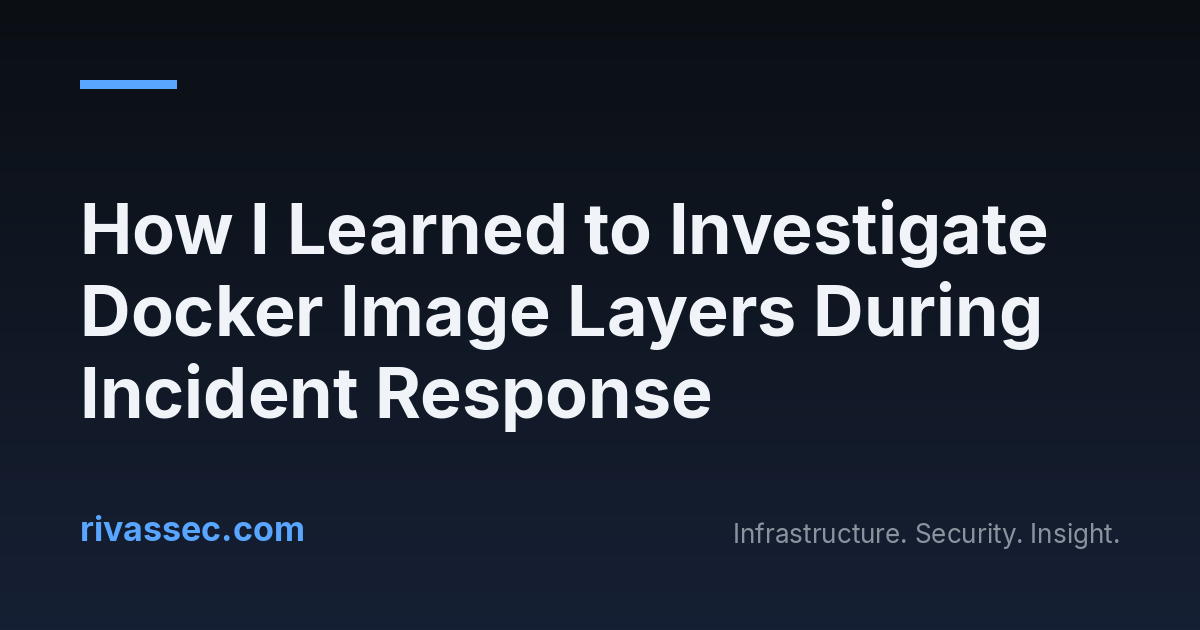
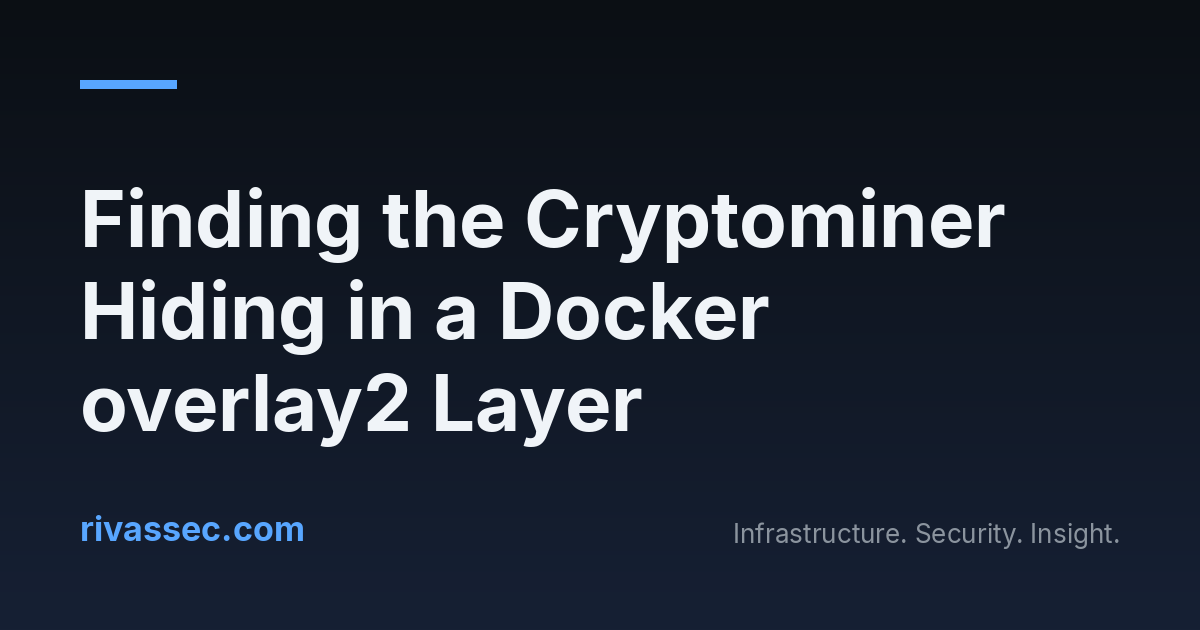
post: publish Finding the Cryptominer Hiding in a Docker overlay2 Layer (#56)
IR walkthrough: correlation finding -> overlay2 layer forensics ->
tag-retarget vs on-disk-tampering hypotheses -> operational definition
of clean. Went through the pre-publish gate twice (fail -> fixes ->
pass) plus a post-pass polish round.

- retitled for search fit; og/cover cards regenerated to match
- linked from the hub's Operating Under Pressure section
- references to the not-yet-published companion post are unlinked
  placeholders; the links land with that post's publish PR

Changed region(s): [[0.0617, 0.3016, 0.8942, 0.573], [0.0617, 0.573, 0.6167, 0.7238]]

diff --git a/content/cryptominer-in-the-docker-layer.md b/content/cryptominer-in-the-docker-layer.md
@@ -1,19 +1,17 @@
-Title: How I Learned to Investigate Docker Image Layers During Incident Response
-Date: 2026-06-24
-Modified: 2026-06-24
+Title: Finding the Cryptominer Hiding in a Docker overlay2 Layer
+Date: 2026-09-11 09:00
+Modified: 2026-09-11 09:00
 Author: Oliver Rivas
 Category: DevSecOps
-Tags: incident-response, docker, overlay2, cryptominer, guardduty, aws, forensics
+Tags: incident-response, devsecops, docker, forensics
 Slug: cryptominer-in-the-docker-layer
 Og_image: images/og/cryptominer-in-the-docker-layer.png
-Summary: A runtime detector flagged mining but ps and ss came back clean. The miner hid in the image's overlay2 diff layer, re-dropped on every container restart.
+Summary: A runtime detector flagged mining but ps and ss came back clean. The miner lived in the image's overlay2 diff layer, relaunched on every container restart.
 Cover: images/covers/cryptominer-in-the-docker-layer.png
-Status: draft
-Published_after: 2026-06-19
 
 [TOC]
 
-During a recent incident-response engagement, I worked through a case where the on-disk picture and the runtime picture were saying different things. The cloud provider's threat-detection service fired several correlated findings on a containerized workload: two cryptomining DNS detections (one against the host, one against a container running on it), one resolver-level finding for the same lookups, and a correlation finding that stitched them all into a single critical-severity event. The destination was a public Monero mining pool. The instance was running a Java-based data-processing application.
+During an incident-response engagement, I worked through a case where the on-disk picture and the runtime picture were saying different things. The cloud provider's threat-detection service fired several correlated findings on a containerized workload: two cryptomining DNS detections (one against the host, one against a container running on it), one resolver-level finding for the same lookups, and a correlation finding that stitched them all into a single critical-severity event. The destination was a public Monero mining pool. The instance was running a JVM-based service.
 
 I opened an SSM session onto the host, ran `ps -ef` inside the container, ran `ss -tunap`, and found nothing. No miner process. No outbound connection to the pool. No CPU pressure. The Java heap looked normal. The application was happily doing what the application was supposed to be doing.
 
@@ -21,15 +19,15 @@ For a while I was sure I was looking at a false-positive.
 
 I was not.
 
-The miner was on disk, in one of the image's overlay2 layers. The container's filesystem could see it through the union mount, but the binary was not in the process space at the moment I checked, which is what `ps` reports. The persistence lived in a layer that survives `docker compose down -v`, which meant any container created from the affected image would inherit the file if the image itself was the source of the persistence. This post is about the sweep that found it, what I now know to look at on the next one, and what I am still not sure about.
+The miner was on disk, in one of the image's [overlay2](https://docs.docker.com/engine/storage/drivers/overlayfs-driver/) layers. The container's filesystem could see it through the union mount, but the binary was not in the process space at the moment I checked, which is what `ps` reports. The persistence lived in a layer that survives `docker compose down -v`, which meant any container created from the affected image would inherit the file if the image itself was the source of the persistence. This post is about the sweep that found it, what I now know to look at on the next one, and what I am still not sure about.
 
 ## The shape of the alert
 
-A modern cloud-detector IR loop has two tiers. There are the per-signal findings, which fire on a single observation: a DNS query to a known mining pool, an SSH brute-force attempt, a port scan against a sensitive port. They are designed for noise reduction. Most of them are individually low-confidence and will resolve as false-positive once a human looks.
+A modern cloud-detector IR loop has two tiers. There are the per-signal findings, which fire on a single observation: a DNS query to a known mining pool, an SSH brute-force attempt, a port scan against a sensitive port. In my experience, most of them are individually low-confidence and will resolve as false-positive once a human looks.
 
-Then there are the correlation findings. AWS GuardDuty calls these `AttackSequence` findings; other clouds and EDRs have analogues. The defining property is that they do not fire on a single signal. They fire when the detector has stitched several signals into a coherent story: a brute-force from a known-bad IP, then a port probe from a different known-bad IP, then a process inside a container talking to a mining pool, all on the same instance, in the same window. The finding hands you the timeline pre-assembled.
+Then there are the correlation findings. AWS GuardDuty calls these [`AttackSequence` findings](https://docs.aws.amazon.com/guardduty/latest/ug/guardduty-extended-threat-detection.html); other clouds and EDRs have analogues. The defining property is that they do not fire on a single signal. They fire when the detector has stitched several signals into a coherent story: a brute-force from a known-bad IP, then a port probe from a different known-bad IP, then a process inside a container talking to a mining pool, all on the same instance, in the same window. The finding hands you the timeline pre-assembled. That correlation tier is where the noise reduction actually happens: many weak signals in, one high-confidence story out.
 
-Per-signal findings can be wrong. Correlation findings can be wrong too, but in my experience they earn priority because they pre-stitch the timeline and tend to carry the highest-confidence detail in the inbox. The lesson I keep relearning is to read them first, especially before declaring per-signal findings false-positive.
+Per-signal findings can be wrong. Correlation findings can be wrong too, but in my experience they earn priority because they pre-stitch the timeline and tend to carry the highest-confidence detail in the inbox.
 
 In this case the correlation finding listed the file path on disk:
 
@@ -37,7 +35,7 @@ In this case the correlation finding listed the file path on disk:
 /opt/<app>/.<hidden_dir>/lib/<obfuscated_subdir>/<binary>
 ```
 
-That string was in the JSON. Not a heuristic, not a prediction, a path. The runtime sensor had observed the binary executing and recorded its on-disk location.
+That string was in the JSON - not a heuristic or a prediction, an actual on-disk path. The runtime sensor had observed the binary executing and recorded its on-disk location.
 
 That is when I went looking on the host.
 
@@ -47,10 +45,10 @@ The container view is not the host view. Inside the running container, the binar
 
 | Directory | Role | Survives container exit? |
 |---|---|---|
-| `lowerdir` (`diff` on each lower layer) | Read-only contribution from a build-time image layer | Yes; only `docker rmi` removes it |
+| `lowerdir` (`diff` on each lower layer) | Read-only contribution from a build-time image layer | Yes; removed only by image removal (`docker rmi` / image prune) |
 | `merged` | Live union view the container sees as `/` | No, unmounted when container stops |
 | `upperdir` | Writable layer the container modifies at runtime | Yes (until container is removed) |
-| `workdir` | Overlay's internal scratch space | No |
+| `workdir` | Overlay's internal scratch space | Directory persists until container removal; contents are transient scratch, nothing forensically durable |
 
 Two of these matter for the rest of this story:
 
@@ -60,58 +58,58 @@ Two of these matter for the rest of this story:
 The first one is the image's diff directory:
 
 ```
-/var/lib/docker/overlay2/<layer-id>/diff/opt/<app>/.<hidden_dir>/lib/<obfuscated_subdir>/<binary>
+/var/lib/docker/overlay2/<image-layer-id>/diff/opt/<app>/.<hidden_dir>/lib/<obfuscated_subdir>/<binary>
 ```
 
-The second one is the merged view, which is what the running container actually sees:
+The second one is the merged view, which is what the running container actually sees. Note the different directory ID: the merged mount lives under the container's own layer directory, not under the poisoned lower layer's:
 
 ```
-/var/lib/docker/overlay2/<layer-id>/merged/opt/<app>/.<hidden_dir>/lib/<obfuscated_subdir>/<binary>
+/var/lib/docker/overlay2/<container-layer-id>/merged/opt/<app>/.<hidden_dir>/lib/<obfuscated_subdir>/<binary>
 ```
 
-These two paths are related but not equivalent, and the difference is the entire post.
+These two paths are related but not equivalent, and the difference is what the rest of the investigation turns on.
 
-The `diff` directory is a layer's contribution to the union. If you wrote a Dockerfile and `COPY`'d a binary into the image at build time, that binary lives in some layer's `diff` directory forever. When you `docker pull` the image, those files arrive on disk. When you `docker rm` the container they stay there, attached to the image, not to any specific running container.
-
-The `merged` directory is the union view of all layers stacked together. It is what the container sees as its filesystem root. When the container runs, processes inside it read from `merged`. When the container stops, `merged` is unmounted, but the underlying `diff` directories remain.
+The lifecycle is the part the table cannot carry. A binary `COPY`'d into an image at build time lives in some layer's `diff` directory from the moment of `docker pull`, and `docker rm` of the container does not touch it - the files belong to the image. `merged` is the opposite: it is the union view the container sees as its filesystem root, it exists only while the container runs, and unmounting it leaves every underlying `diff` directory in place.
 
 I also checked `upperdir` and `workdir`. The malicious binary was in neither. It was in a lower layer's `diff` directory, the read-only foundation that came down with the image pull.
 
-To make sure I had the layer role right, I cross-referenced against `docker inspect <container>`. The `GraphDriver.Data.LowerDir` chain on the running container included this directory in its read-only stack, which is what marks it as a build-time image layer rather than the container's writable upper. `docker history` told me the image had `COPY` steps in its build (which is unsurprising for any non-trivial image) but `docker history` shows the instruction, not the per-file provenance, so I am not claiming it identified the specific binary. The shape of the evidence is "this layer is in the LowerDir chain, the LowerDir chain is read-only, the running container's writable space is empty for this path." That is enough to place the file in an image layer.
+To make sure I had the layer role right, I cross-referenced against `docker inspect <container>`. The `GraphDriver.Data.LowerDir` chain on the running container included this directory in its read-only stack, which is what marks it as an image-side lower layer rather than the container's writable upper. `docker history` told me the image had `COPY` steps in its build (which is unsurprising for any non-trivial image) but `docker history` shows the instruction, not the per-file provenance, so I am not claiming it identified the specific binary. The shape of the evidence is "this layer is in the LowerDir chain, the LowerDir chain is read-only, the running container's writable space is empty for this path." That is enough to place the file in an image layer.
 
-That distinction matters. A miner in the writable upperdir would be a runtime drop, written into the container after it started, possibly by a process inside it. A miner in an image layer means the image itself is the persistence mechanism. If that layer originated from the image (rather than from on-disk tampering, which I cover next), every container created from this image inherits the file at birth.
+That distinction matters. A miner in the writable upperdir would be a runtime drop, written into the container after it started, possibly by a process inside it. A miner in an image layer means the layer itself is the persistence mechanism. If that layer originated from the image (rather than from on-disk tampering, which I cover next), every container created from this image inherits the file at birth.
 
 ## What the binary did
 
-The pattern I inferred (and want to flag as inferred, since I never finished reconstructing the execution chain) is that the binary ran shortly after container start, fired one DNS query to the pool, tried to start mining, and died before steady state. The application's JVM was using almost all the cgroup memory and the miner could not get a foothold. By the time I looked, the process was not on the system anymore. The runtime sensor logged the execution and the DNS query each cycle; the per-execution timestamps and process ancestry would have helped me pin down the precise launch path, but I did not extract them from the sensor's records before the host got rebuilt.
+The pattern I inferred (and want to flag as inferred, since I never finished reconstructing the execution chain) is that the binary ran shortly after container start, fired one DNS query to the pool, tried to start mining, and died before steady state. The application's JVM was using almost all the cgroup memory and the miner could not get a foothold. By the time I looked, the process was not on the system anymore. The runtime sensor logged the execution and the DNS query each cycle; the per-execution timestamps and process ancestry would have helped me pin down the precise launch path, but I did not go back for them before the rebuild closed the investigation out. Whether they were still sitting in the detector's finding records or gone with the host, the window that closed was mine.
 
 This is why `ps` was empty.
 
-The pattern repeated on every restart. There had been an unusual amount of container churn for an unrelated stability issue. Each restart re-mounted the poisoned layer, the miner came up briefly, fired DNS, lost the resource fight, and died. The runtime sensor caught the DNS each time. The host-level `ps` view, sampled later by a human, missed it every time.
+The binary was not self-contained, either: it referenced a dropper script on a content-delivery URL and a second-stage payload on a paste service. Retrieving those artifacts for hashing set off its own incident - a story I am writing up separately.
 
-We calculated and tracked the binary's SHA-256 during analysis (it was around 9.8 MB, owned by the application's runtime user). I am not publishing the hash here; it is a real IOC from a real incident and serves no educational purpose in the post.
+The pattern repeated on every restart. There had been an unusual amount of container churn for an unrelated stability issue. Each restart re-mounted the poisoned layer, and the sensor logged the execution and the DNS query each cycle; by the inference above, the miner came up briefly, lost the resource fight, and died. The host-level `ps` view, sampled later by a human, missed it every time.
 
-I will note here that file mtimes inside an image layer are weak forensic evidence: tar archives can preserve build-host timestamps, `COPY` carries them across, and an attacker with write access can `touch` whatever they want. I am treating mtime as a clue, not as proof of when the file arrived on the host.
+I calculated and tracked the binary's SHA-256 during analysis (it was around 9.8 MB, owned by the application's runtime user). I am not publishing the hash here; it is a real IOC from a real incident and serves no educational purpose in the post.
 
-The path on disk used a leading dot for the parent directory so a casual `ls` of the parent did not show it. The binary's name was a plausible-sounding match for the kinds of helpers the application legitimately ships. The disguise was decent. It was not great. It was exactly good enough to survive a reviewer glancing at a file listing.
+One caution on timestamps: file mtimes inside an image layer are weak forensic evidence - tar archives can preserve build-host timestamps, `COPY` carries them across, and an attacker with write access can `touch` whatever they want.
+
+The path on disk used a leading dot for the parent directory so a casual `ls` of the parent did not show it. The binary's name was a plausible-sounding match for the kinds of helpers the application legitimately ships. The disguise was decent, not great: exactly good enough to survive a reviewer glancing at a file listing.
 
 ## Was the image poisoned at build time, or on disk?
 
 This is where the post stops being a clean story.
 
-Two explanations remained plausible. The first is a supply-chain compromise of the registry: OCI digests are content-addressed and cannot be mutated in place, but the *tag* a deployment tracks maps to a digest, and that mapping can be moved by anyone with push access to the repository. A fresh pull after a tag rewrite would surface a malicious layer without anything happening on the host. The second is on-disk tampering: a process on the host with root or `docker`-group access modifying the local layer storage directly.
+Two explanations remained plausible. The first is a supply-chain compromise of the registry: OCI digests are content-addressed and cannot be mutated in place, but the *tag* a deployment tracks maps to a digest, and that mapping can be moved by anyone with push access to the repository. A fresh pull after a tag rewrite would surface a malicious layer without anything happening on the host. The second is on-disk tampering: a process on the host with root access - or `docker`-group access, which is root-equivalent via the socket - writing into the local layer storage.
 
-A digest comparison between the host's recorded image digest and the registry's currently-advertised digest for the tag will tell you the tag is *currently* mapped to the digest the host has. It does not tell you whether the tag was *ever* pointed at a different digest in the meantime. The cleanest defense against this whole class of question is to deploy by immutable identifier (`repo@sha256:<digest>`) in your manifests, not by tag. The deployment record itself becomes the audit trail and a tag rewrite cannot retroactively change what got pulled. On-disk tampering is also harder to disprove than a `cp`-style edit, because Docker stores layer metadata in `imagedb` and a thorough tamperer would update both.
+A digest comparison between the host's recorded image digest and the registry's currently-advertised digest for the tag will tell you the tag is *currently* mapped to the digest the host has. It does not tell you whether the tag was *ever* pointed at a different digest in the meantime. The cleanest defense against this whole class of question is to deploy by immutable identifier (`repo@sha256:<digest>`) in your manifests, not by tag. The deployment record itself becomes the audit trail and a tag rewrite cannot retroactively change what got pulled. Registry-side tag immutability (ECR immutable tags, Harbor's immutable tag rules) is the complementary control on the other end: it prevents the retarget outright and leaves a registry audit event when someone tries. A naive `cp` into a diff directory leaves the layer content out of sync with the metadata Docker keeps in `layerdb` (and the image configs in `imagedb`); a defender can check for that mismatch, and a thorough tamperer would have to forge both, which is why clean on-disk tampering is hard to rule out.
 
 Because containment took priority over historical reconstruction, attribution remained unresolved, and I am writing it that way on purpose. Most incident write-ups jump to attribution because attribution makes the story feel done. The middle of the story is "find the malware on disk." The end is "tell people how to find it." Attribution sits outside this scope.
 
-There is a second gap I did not close before rebuild: the execution chain. I confirmed the binary executed and I confirmed it lived on disk in an image layer, but I did not finish reconstructing what launched it. Candidates included the image's `ENTRYPOINT`, the application's bootstrap shell scripts, an `LD_PRELOAD` in the image, a startup hook in the container's init system, or a sidecar I had not noticed. With more time, the first thing I would walk is `docker inspect <image>` for `Entrypoint` and `Cmd`, then every shell script those reference, looking for the line that invokes the binary.
+The execution-chain gap I flagged earlier is the second thing I did not close before rebuild. Candidates for what launched the binary included the image's `ENTRYPOINT`, the application's bootstrap shell scripts, an `LD_PRELOAD` in the image, a startup hook in the container's init system, or a sidecar I had not noticed. With more time, the first thing I would walk is `docker inspect <image>` for `Entrypoint` and `Cmd`, then every shell script those reference, looking for the line that invokes the binary.
 
 ## What "clean" means now
 
 After containment, the only definition of clean I trusted was the one I could verify.
 
-The image got rebuilt from a known-good source, signed, and re-published. The host had `docker rmi` run against the poisoned image, which removed the layer from `/var/lib/docker/overlay2/`, which I confirmed by re-running the same forensic walk and getting nothing back. The running container was destroyed and recreated from the new image.
+The image got rebuilt from a known-good source, signed, and re-published. Signing pays off only where verification is enforced at pull or deploy; unverified, it is an audit trail, not a control. The host had `docker rmi` run against the poisoned image, which removed the layer from `/var/lib/docker/overlay2/`. Note that `rmi` only drops a layer once no other image, tag, or stopped container still references it, which is why the confirming sweep is part of the sequence rather than optional: I re-ran the same forensic walk and got nothing back. The running container was destroyed and recreated from the new image, and the host itself was rebuilt. That last step matters more than it sounds: while the on-disk-tampering hypothesis stays open, a resident root-level actor survives any amount of image hygiene, so the sweep below validates a snapshot, not an eviction. Treat an unruled-out tampering hypothesis as a compromised host - replace it, and rotate every credential reachable from it.
 
 Validation was the same forensic sweep that found the miner originally:
 
@@ -119,13 +117,15 @@ Validation was the same forensic sweep that found the miner originally:
 - Generate a file manifest from the rebuilt image and compare layer contents on the host against that expected manifest. Investigate any unexpected file, not just an exact name match.
 - Pull the new image's digest from the registry and compare against the on-disk digest record after the next deploy.
 
-A clean result on all three is the validation. The manifest comparison is the durable check; it catches a renamed variant of the same binary or anything else the attacker might add to the layer that the image's build does not produce.
+A clean result on all three is the validation. The manifest comparison is the durable check; it catches a renamed variant of the same binary or anything else the attacker might add to the layer that the image's build does not produce. The triad has a scope, though: it validates against tag retargeting and on-disk tampering, and it assumes the build inputs are trusted. Verifying the base image digest and the build pipeline is the separate check that closes the build-side vector.
 
 ## What I will do differently
 
-`ps` and `ss` are the wrong starting point for a containerized workload. They sample the running processes only and miss the persistence layer entirely. The forensic scope for a containerized IR has to include the image layers, the diff directories, the upperdir, and the registry digest record. Anything else and you are seeing only what the attacker wants visible at the moment you happen to look.
+`ps` and `ss` are reasonable first-pass triage, but they are not evidence that a containerized workload is clean. They sample runtime state at one instant and say nothing about dormant persistence in the image layers or the writable layer. Running them was not the mistake; the mistake was nearly letting a clean runtime observation answer a filesystem question. The forensic scope for a containerized IR has to include the image layers, the diff directories, the upperdir, and the registry digest record. Anything else and you are seeing only what the attacker wants visible at the moment you happen to look. One scoping check before any of it: confirm the storage driver with `docker info`. Docker Engine 29.0+ defaults fresh installs to the containerd image store (upgraded hosts keep their existing driver), and there layer content lives under containerd's snapshotter paths instead of `/var/lib/docker/overlay2` - so an empty overlay2 sweep on such a host is not a clean result, it means you looked in the wrong place.
 
-A `find /var/lib/docker/overlay2 -type f -newer <T>` is a five-second query and it would have caught this in the first pass for runtime drops written into `upperdir`. The catch: if the binary was baked into the image at build time, its mtime inside the layer can reflect the image-build date, which could be weeks or months earlier than the incident. `-newer` would miss that. The manifest comparison from the previous section is what closes the gap; for layers built today, it would have flagged a binary that does not appear in the build's expected contents regardless of the binary's mtime.
+The general rule the incident taught me: a clean result is only meaningful within the scope of the question you asked. `ps` can say the miner is not running right now. An upperdir sweep can say it was not persisted there. A manifest comparison can say the filesystem matches the artifact I expected, and provenance can say that artifact came through a build I trust. None of these answers substitutes for another, and they run from weakest to strongest: a filename search is the cheapest check and the easiest to defeat, build provenance the hardest. The failure mode is letting a strong answer to a weak question close the incident.
+
+A `find /var/lib/docker/overlay2 -type f -newermt '<incident start>'` is a five-second query, and it is the first-pass catch for runtime drops written into `upperdir` - a different case than this incident. The catch: if the binary was baked into the image at build time, its mtime inside the layer can reflect the image-build date, which could be weeks or months earlier than the incident. A recency filter would miss that. The manifest comparison from the previous section is what closes the gap.
 
 The other thing I am changing is the order in which I read cloud-detector findings. I read the correlation finding well after the per-signal findings, because I was sweeping them in chronological order and the correlation was the most recent. The next time, the correlation gets read first. It is the cheapest path to the highest-confidence signal in the inbox, and it would have handed me the binary path before I started believing the host was clean.
 
@@ -133,4 +133,4 @@ The next incident I investigate will start with the image layers. The container 
 
 ## Related reading
 
-- [Bandit-Clean Pwnagotchi Plugins]({filename}pwnagotchi-plugin-bandit-hardening.md): different threat model, same lesson about how a binary's threat surface depends on where it lives, not what it claims to be.
+- [Bandit-Clean Pwnagotchi Plugins]({filename}pwnagotchi-plugin-bandit-hardening.md): different threat model, same habit: trust resolved full paths and verified content, never what a file's name claims it is.

diff --git a/content/devsecops-guide.md b/content/devsecops-guide.md
@@ -30,6 +30,7 @@ fires against your own tooling, or the 208th day of uptime.
 
 ## Operating Under Pressure
 
+- [Finding the Cryptominer Hiding in a Docker overlay2 Layer](cryptominer-in-the-docker-layer.html)
 - [The 208.5-Day Kernel Bug: Uptime, Overflow, and Risk](208-day-kernel-bug-lessons.html)
 - [Taming the OOM Killer: Process Priorities on Linux](oom-killer-process-prioritization.html)
 - [Bandit-Clean Pwnagotchi Plugins: How subprocess Goes From Risk to Routine](pwnagotchi-plugin-bandit-hardening.html)
